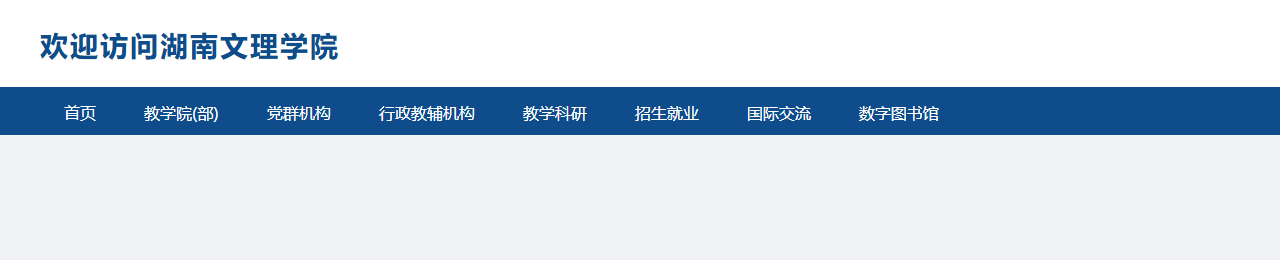
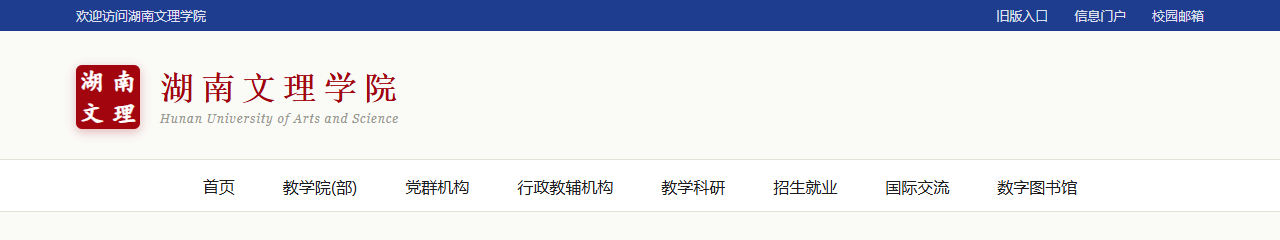
二级菜单改版：基于学校官网视觉体系重新设计（flex + 校红/深蓝 + 过渡动画）

diff --git a/实验3-导航菜单/二级菜单.html b/实验3-导航菜单/二级菜单.html
@@ -1,11 +1,11 @@
 <!DOCTYPE html>
-<html lang="en">
+<html lang="zh-CN">
 <head>
     <meta charset="UTF-8">
     <meta name="viewport" content="width=device-width, initial-scale=1.0">
     <title>二级水平导航菜单</title>
     <style>
-        /* ========== 全局基础（元素选择器 + 通配选择器） ========== */
+        /* ========== 基础 ========== */
         * {
             margin: 0;
             padding: 0;
@@ -13,104 +13,255 @@
         }
 
         body {
-            font-family: "Microsoft YaHei", "SimHei", sans-serif;
-            background-color: #f0f2f5;
+            font-family: "Microsoft YaHei", "PingFang SC", sans-serif;
+            background-color: #fafaf7;          /* 米白纸底 */
+            color: #1c1c1e;
         }
 
-        /* 去掉所有列表的默认项目符号 */
-        ul {
-            list-style: none;
+        ul { list-style: none; }
+
+        /* ========== 顶部深蓝工具条（沿用官网语言） ========== */
+        .utility-bar {
+            background-color: #1e3d8f;
+            color: rgba(255, 255, 255, 0.85);
+            font-size: 13px;
         }
 
-        /* ========== 顶部欢迎横幅（类选择器 li.logo） ========== */
-        li.logo {
-            height: 90px;
-            line-height: 90px;                  /* 行高 = 高度，实现文字垂直居中 */
-            padding-left: 40px;
-            font-size: 28px;
-            font-weight: bold;
-            letter-spacing: 2px;
-            color: #0f4c8c;
-            background-color: #ffffff;
-            border-bottom: 3px solid #0f4c8c;  /* 盒模型：border 做装饰线 */
+        .utility-bar .inner {
+            max-width: 1160px;
+            margin: 0 auto;
+            padding: 7px 16px;
+            display: flex;
+            justify-content: space-between;
         }
 
-        /* ========== 导航条（第二个 ul：ul:last-of-type） ========== */
-        body > ul:last-of-type {
-            background-color: #0f4c8c;          /* 深蓝色导航条背景 */
-            padding-left: 40px;
-            font-size: 0;                       /* 消除 inline-block 的空白间隙 */
+        .utility-bar a {
+            color: rgba(255, 255, 255, 0.85);
+            text-decoration: none;
+            margin-left: 22px;
         }
 
-        /* 一级菜单项水平排列 */
-        body > ul:last-of-type > li {
-            display: inline-block;              /* 水平排列的关键 */
-            position: relative;                 /* 作为二级菜单绝对定位的参照物 */
-            font-size: 16px;                    /* 恢复字号（抵消父级 font-size:0） */
-        }
-
-        body > ul:last-of-type > li a {
-            display: block;                     /* 撑满 li，扩大可点击区域 */
-            padding: 12px 24px;
+        .utility-bar a:hover {
             color: #ffffff;
+            text-decoration: underline;
+        }
+
+        /* ========== 校名区 ========== */
+        .brand {
+            max-width: 1160px;
+            margin: 0 auto;
+            padding: 34px 16px 30px;
+            display: flex;
+            align-items: center;
+            gap: 20px;
+        }
+
+        /* 朱文印章：本页的记忆点 */
+        .seal {
+            flex: none;
+            width: 64px;
+            height: 64px;
+            background-color: #a3050f;
+            border-radius: 6px;
+            display: grid;
+            grid-template-columns: 1fr 1fr;
+            grid-template-rows: 1fr 1fr;
+            place-items: center;
+            color: #ffffff;
+            font-family: "KaiTi", "STKaiti", serif;
+            font-size: 24px;
+            font-weight: bold;
+            line-height: 1;
+            box-shadow: 0 3px 10px rgba(163, 5, 15, 0.28);
+        }
+
+        .brand h1 {
+            font-family: "SimSun", "STSong", serif;       /* 衬线校名，呼应书法校名 */
+            font-size: 34px;
+            font-weight: bold;
+            letter-spacing: 6px;
+            color: #a3050f;
+            line-height: 1.2;
+        }
+
+        .brand .en {
+            margin-top: 4px;
+            font-family: Georgia, "Times New Roman", serif;
+            font-style: italic;
+            font-size: 12px;
+            letter-spacing: 1px;
+            color: #9a9a92;
+        }
+
+        /* ========== 导航条（白底通栏 + 红色强调） ========== */
+        .nav {
+            background-color: #ffffff;
+            border-top: 1px solid #e5e2da;
+            border-bottom: 1px solid #e5e2da;
+            position: sticky;
+            top: 0;
+            z-index: 100;
+        }
+
+        .nav .menu {
+            max-width: 1160px;
+            margin: 0 auto;
+            display: flex;
+            justify-content: center;
+        }
+
+        .nav .menu > li {
+            position: relative;               /* 二级菜单定位参照 */
+        }
+
+        .nav .menu > li > a {
+            display: block;
+            position: relative;
+            padding: 16px 24px 14px;
+            font-size: 16px;
+            color: #1c1c1e;
             text-decoration: none;
             white-space: nowrap;
+            transition: color .15s ease;
         }
 
-        /* :hover 伪类：悬停一级菜单时背景变化 */
-        body > ul:last-of-type > li:hover > a {
-            background-color: #e60012;
+        /* 红色下划线：从左侧生长（而不是居中对开），呼应印章的"落笔" */
+        .nav .menu > li > a::after {
+            content: "";
+            position: absolute;
+            left: 24px;
+            bottom: 0;
+            width: 0;
+            height: 3px;
+            background-color: #a3050f;
+            transition: width .18s ease;
         }
 
-        /* ========== 二级下拉菜单（绝对定位） ========== */
-        body > ul:last-of-type > li ul {
-            position: absolute;                 /* 相对于 position:relative 的父级 li 定位 */
-            left: 0;
-            top: 100%;                          /* 紧贴父菜单项的下边缘 */
-            display: none;                      /* 默认隐藏 */
-            min-width: 100%;                    /* 至少与父菜单同宽 */
+        .nav .menu > li:hover > a {
+            color: #a3050f;
+        }
+
+        .nav .menu > li:hover > a::after {
+            width: calc(100% - 48px);
+        }
+
+        /* ========== 二级下拉菜单 ========== */
+        .nav .menu > li > ul {
+            position: absolute;
+            top: 100%;
+            left: 50%;
+            transform: translateX(-50%) translateY(6px);
+            min-width: 230px;
             background-color: #ffffff;
-            box-shadow: 0 4px 8px rgba(0, 0, 0, 0.2);
+            border: 1px solid #e5e2da;
+            border-top: 3px solid #a3050f;    /* 红头：和导航下划线同一支笔 */
+            box-shadow: 0 10px 26px rgba(28, 28, 30, 0.10);
+            opacity: 0;
+            visibility: hidden;
+            transition: opacity .16s ease, transform .16s ease, visibility .16s;
         }
 
-        body > ul:last-of-type > li ul li {
-            display: block;                     /* 二级菜单项垂直排列 */
+        .nav .menu > li > ul li {
+            border-bottom: 1px solid #f2f0ea;
         }
 
-        body > ul:last-of-type > li ul li a {
-            color: #333333;
-            padding: 10px 20px;
+        .nav .menu > li > ul li:last-child {
+            border-bottom: none;
         }
 
-        body > ul:last-of-type > li ul li a:hover {
-            background-color: #0f4c8c;
-            color: #ffffff;
+        .nav .menu > li > ul li a {
+            display: flex;
+            justify-content: space-between;
+            align-items: center;
+            padding: 13px 18px;
+            font-size: 14px;
+            color: #3a3a3d;
+            text-decoration: none;
+            white-space: nowrap;
+            transition: background-color .15s ease, color .15s ease;
         }
 
-        /* :hover 伪类：悬停一级菜单时显示对应的二级菜单 */
-        body > ul:last-of-type > li:hover > ul {
-            display: block;
+        .nav .menu > li > ul li a::after {
+            content: "›";
+            color: #c9c6bd;
+            transition: color .15s ease, transform .15s ease;
         }
+
+        .nav .menu > li > ul li a:hover {
+            background-color: #f9f2f2;        /* 极浅的校红底色 */
+            color: #a3050f;
+        }
+
+        .nav .menu > li > ul li a:hover::after {
+            color: #a3050f;
+            transform: translateX(3px);
+        }
+
+        .nav .menu > li:hover > ul {
+            opacity: 1;
+            visibility: visible;
+            transform: translateX(-50%) translateY(0);
+        }
+
+        /* ========== 页脚说明 ========== */
+        .footnote {
+            max-width: 1160px;
+            margin: 90px auto 40px;
+            padding: 0 16px;
+            color: #9a9a92;
+            font-size: 13px;
+            text-align: center;
+            line-height: 1.9;
+        }
+
+        .footnote strong { color: #a3050f; font-weight: normal; }
     </style>
 </head>
 <body>
-    <ul>
-        <li class="logo">欢迎访问湖南文理学院</li>
-    </ul>
-    <ul>         
-        <li><a href="#">首页</a></li>
-        <li><a href="#">教学院(部)</a>
-            <ul>
-                <li><a href="#">计算机与电气工程学院</a></li>
-                <li><a href="#">芙蓉学院</a></li>
-            </ul>
-        </li>
-        <li><a href="#">党群机构</a></li>        
-        <li><a href="#">行政教辅机构</a></li>
-        <li><a href="#">教学科研</a></li>
-        <li><a href="#">招生就业</a></li>
-        <li><a href="#">国际交流</a></li>
-        <li><a href="#">数字图书馆</a></li>
-    </ul>    
+    <!-- 顶部深蓝工具条 -->
+    <div class="utility-bar">
+        <div class="inner">
+            <span>欢迎访问湖南文理学院</span>
+            <span>
+                <a href="#">旧版入口</a>
+                <a href="#">信息门户</a>
+                <a href="#">校园邮箱</a>
+            </span>
+        </div>
+    </div>
+
+    <!-- 校名区 -->
+    <header class="brand">
+        <div class="seal" aria-hidden="true">
+            <span>湖</span><span>南</span><span>文</span><span>理</span>
+        </div>
+        <div>
+            <h1>湖南文理学院</h1>
+            <div class="en">Hunan University of Arts and Science</div>
+        </div>
+    </header>
+
+    <!-- 二级水平导航菜单 -->
+    <nav class="nav">
+        <ul class="menu">
+            <li><a href="#">首页</a></li>
+            <li><a href="#">教学院(部)</a>
+                <ul>
+                    <li><a href="#">计算机与电气工程学院</a></li>
+                    <li><a href="#">芙蓉学院</a></li>
+                </ul>
+            </li>
+            <li><a href="#">党群机构</a></li>
+            <li><a href="#">行政教辅机构</a></li>
+            <li><a href="#">教学科研</a></li>
+            <li><a href="#">招生就业</a></li>
+            <li><a href="#">国际交流</a></li>
+            <li><a href="#">数字图书馆</a></li>
+        </ul>
+    </nav>
+
+    <div class="footnote">
+        悬停 <strong>教学院(部)</strong> 查看二级下拉菜单
+    </div>
 </body>
 </html>

diff --git a/实验3-导航菜单/README.md b/实验3-导航菜单/README.md
@@ -7,7 +7,7 @@ Web应用开发技术实验 · 软工2402
 | 文件 | 说明 |
 | --- | --- |
 | `一级菜单.html` | 表格布局的一级水平导航菜单（HTML 结构为题目提供，未修改，仅添加 CSS） |
-| `二级菜单.html` | ul/li 嵌套结构的二级下拉导航菜单（HTML 结构为题目提供，未修改，仅添加 CSS） |
+| `二级菜单.html` | 基于学校官网视觉体系重新设计的二级下拉导航菜单（纯 CSS 实现，无 JS） |
 | `images/` | 浏览器实际运行效果截图 |
 
 ## 运行效果
@@ -26,11 +26,14 @@ Web应用开发技术实验 · 软工2402
 
 ## 实现要点
 
-- **水平排列**：菜单项使用 `display: inline-block`，不脱离文档流，可正常设置宽高与内外边距；父级 `ul` 设置 `font-size: 0` 消除 inline-block 的空白间隙，`li` 上恢复字号。
-- **盒模型**：`a` 标签转为块级元素并用 `padding` 扩大可点击区域；`border` 用于顶部横幅装饰线。
-- **hover 伪类**：`td a:hover` / `li:hover > a` 实现一级菜单悬停变色；`li:hover > ul` 控制二级菜单显示。
-- **二级菜单定位**：父级 `li` 设置 `position: relative`，二级 `ul` 设置 `position: absolute; left: 0; top: 100%`，默认 `display: none` 隐藏，悬停时显示。
-- **选择器综合应用**：类选择器（`.logo`）、后代选择器（`td a`）、子选择器（`>`）、伪类选择器（`:hover`、`:last-of-type`）等。
+**一级菜单**
+- `td a` 转为块级元素并用 `padding` 扩大可点击区域；`border-collapse: collapse` 消除表格单元格间隙；`:hover` 悬停变色。
+
+**二级菜单（官网风格改版）**
+- **水平排列**：`display: flex` + `justify-content: center`，无需处理 inline-block 空白缝隙，增删菜单项自动适应。
+- **视觉体系**：校红 `#a3050f` + 深蓝 `#1e3d8f` 取自学校官网；宋体校名 + 朱文印章“湖南文理”作标识；白底通栏导航配红色下划线（从左侧生长）。
+- **下拉定位**：父级 `li` 设 `position: relative`，二级 `ul` 设 `position: absolute; top: 100%; left: 50%`，配合 `transform: translateX(-50%)` 水平居中。
+- **过渡动画**：用 `visibility` + `opacity` + `transform: translateY` 组合替代 `display: none` 切换，实现下拉淡入上移效果。
 
 ## 运行方式
 
